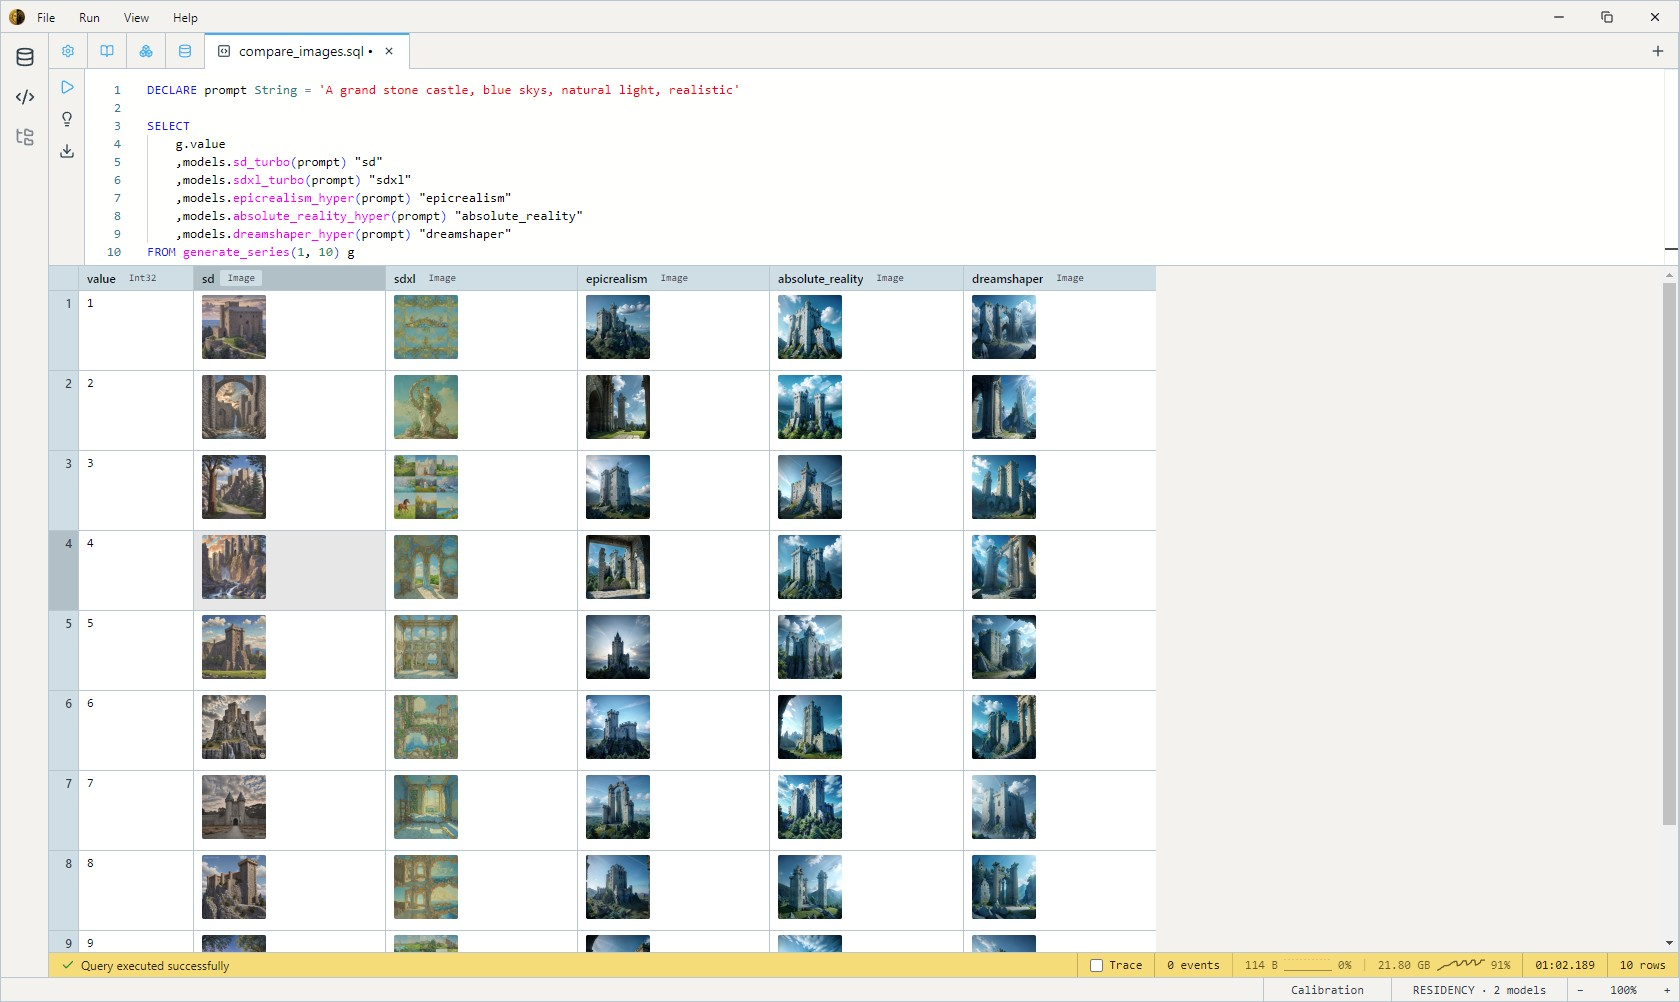
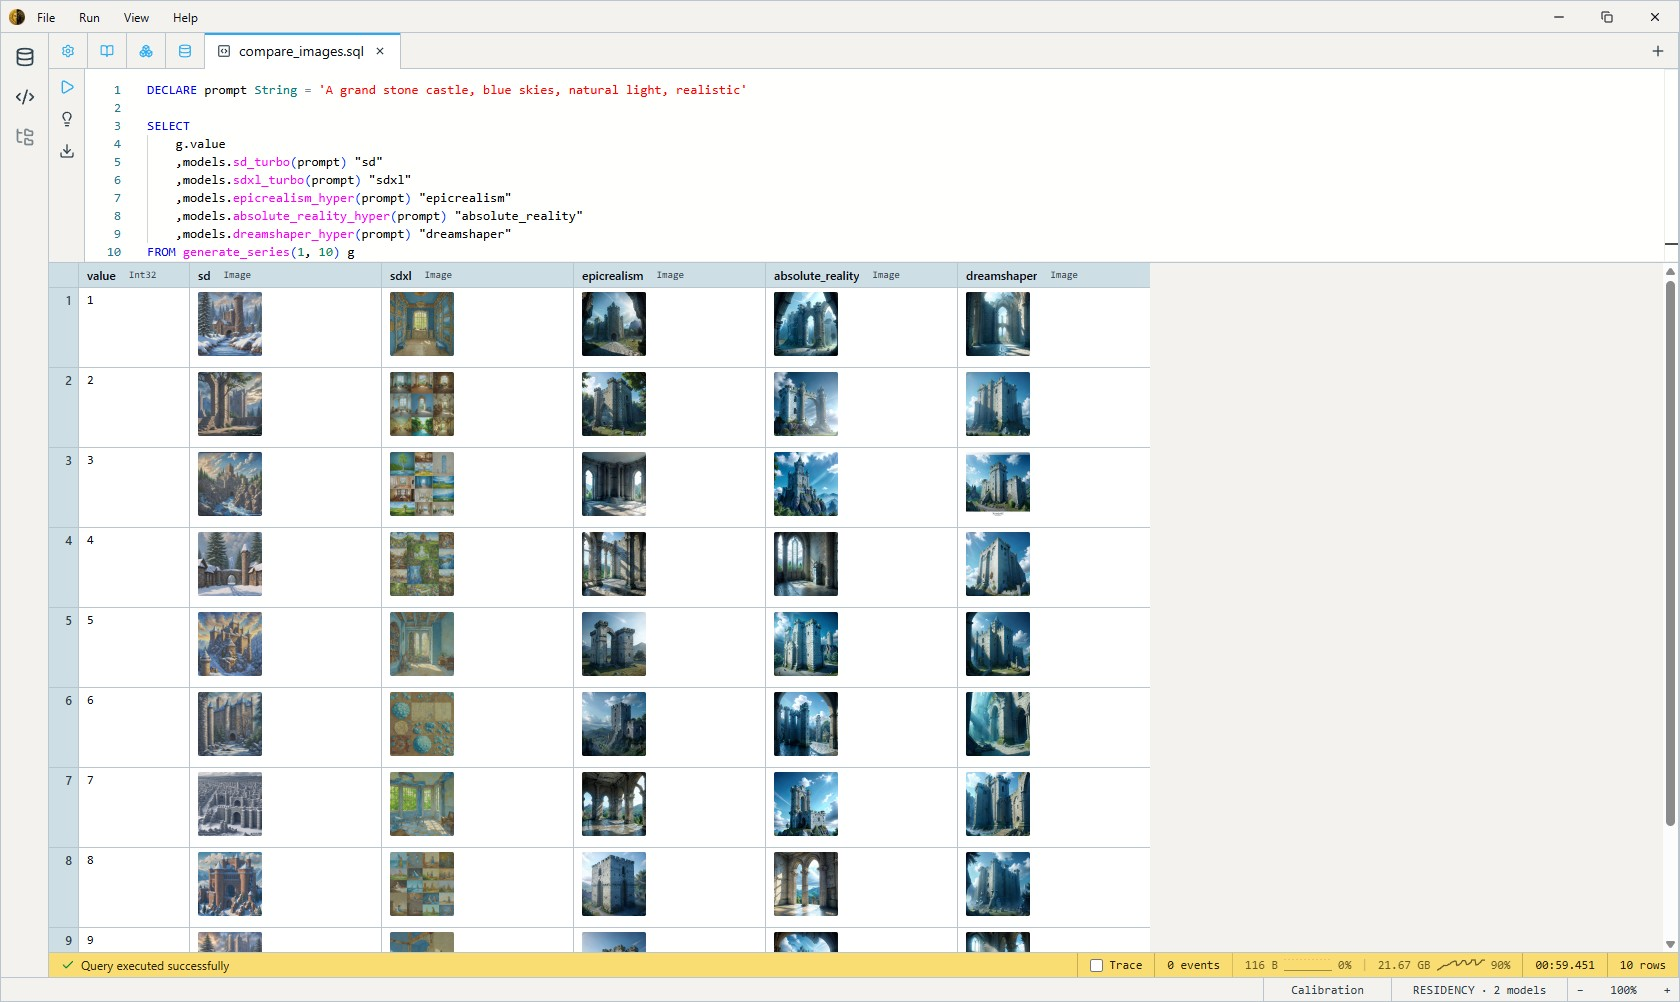
fix: correct spelling of "skies" in SQL prompt examples

diff --git a/src/Heliosoph.DatumV.Web/ClientApp/src/state/tabs.ts b/src/Heliosoph.DatumV.Web/ClientApp/src/state/tabs.ts
@@ -519,7 +519,7 @@ FROM datasets.coco_val2017
 LIMIT 32`;
 
 const COMPARE_IMAGES_EXAMPLE_SQL = `-- This will take a little while your first time as the models calibrate, expect 10-13GB of VRAM
-DECLARE prompt String = 'A grand stone castle, blue skys, natural light, realistic'
+DECLARE prompt String = 'A grand stone castle, blue skies, natural light, realistic'
 
 SELECT
     g.value

diff --git a/README.md b/README.md
@@ -43,7 +43,7 @@ See [Examples — Depth model comparison](docs/examples/depth-comparison.md) for
 ![Compare text-to-image models](docs/figures/compare_images.jpg)
 
 ```sql
-DECLARE prompt String = 'A grand stone castle, blue skys, natural light, realistic'
+DECLARE prompt String = 'A grand stone castle, blue skies, natural light, realistic'
 
 SELECT
     g.value
@@ -149,7 +149,7 @@ You can add your own ONNX models with `CREATE MODEL`. See [docs/models.md](docs/
 ## Building from source
 
 ```bash
-git clone https://github.com/Heliosoph/DatumV.git
+git clone https://github.com/HeliosophLLC/DatumV.git
 cd DatumV
 dotnet build
 dotnet test

diff --git a/docs/examples/compare-images.md b/docs/examples/compare-images.md
@@ -10,7 +10,7 @@ The prompt lives in a `DECLARE`, so it's bound once and reused across every mode
 
 ```sql
 -- This will take a little while your first time as the models calibrate, expect 10-13GB of VRAM
-DECLARE prompt String = 'A grand stone castle, blue skys, natural light, realistic'
+DECLARE prompt String = 'A grand stone castle, blue skies, natural light, realistic'
 
 SELECT
     g.value